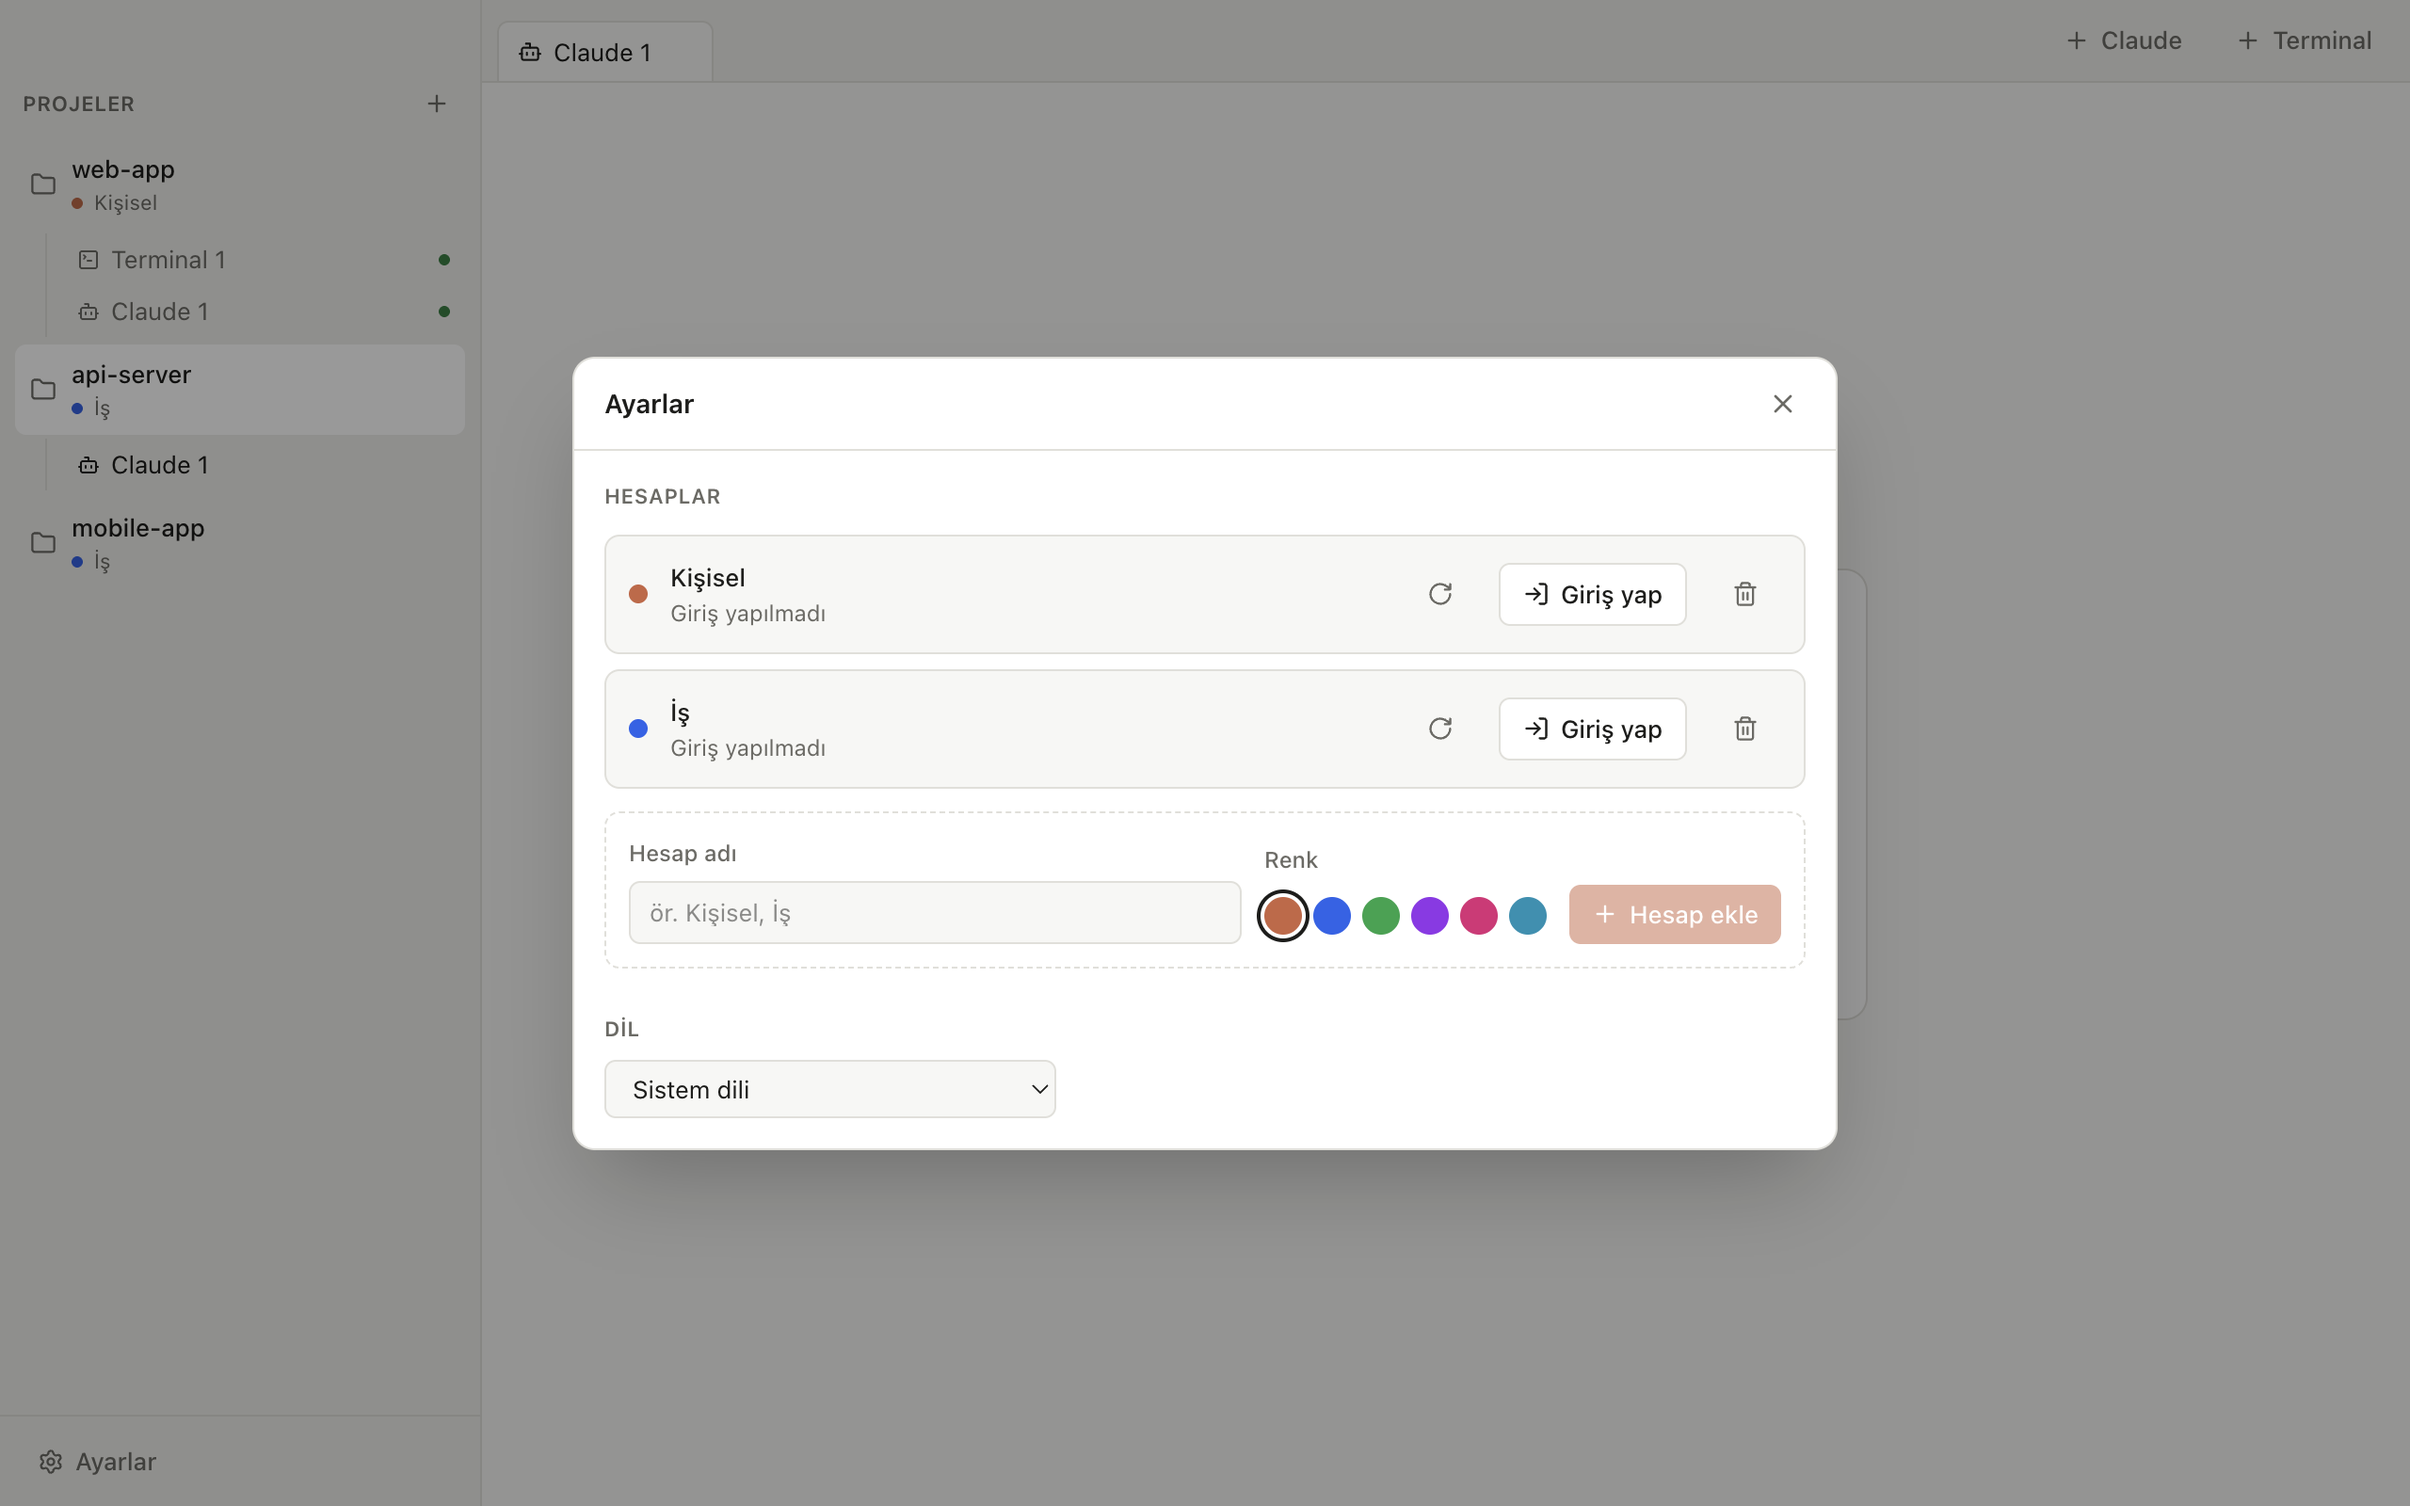
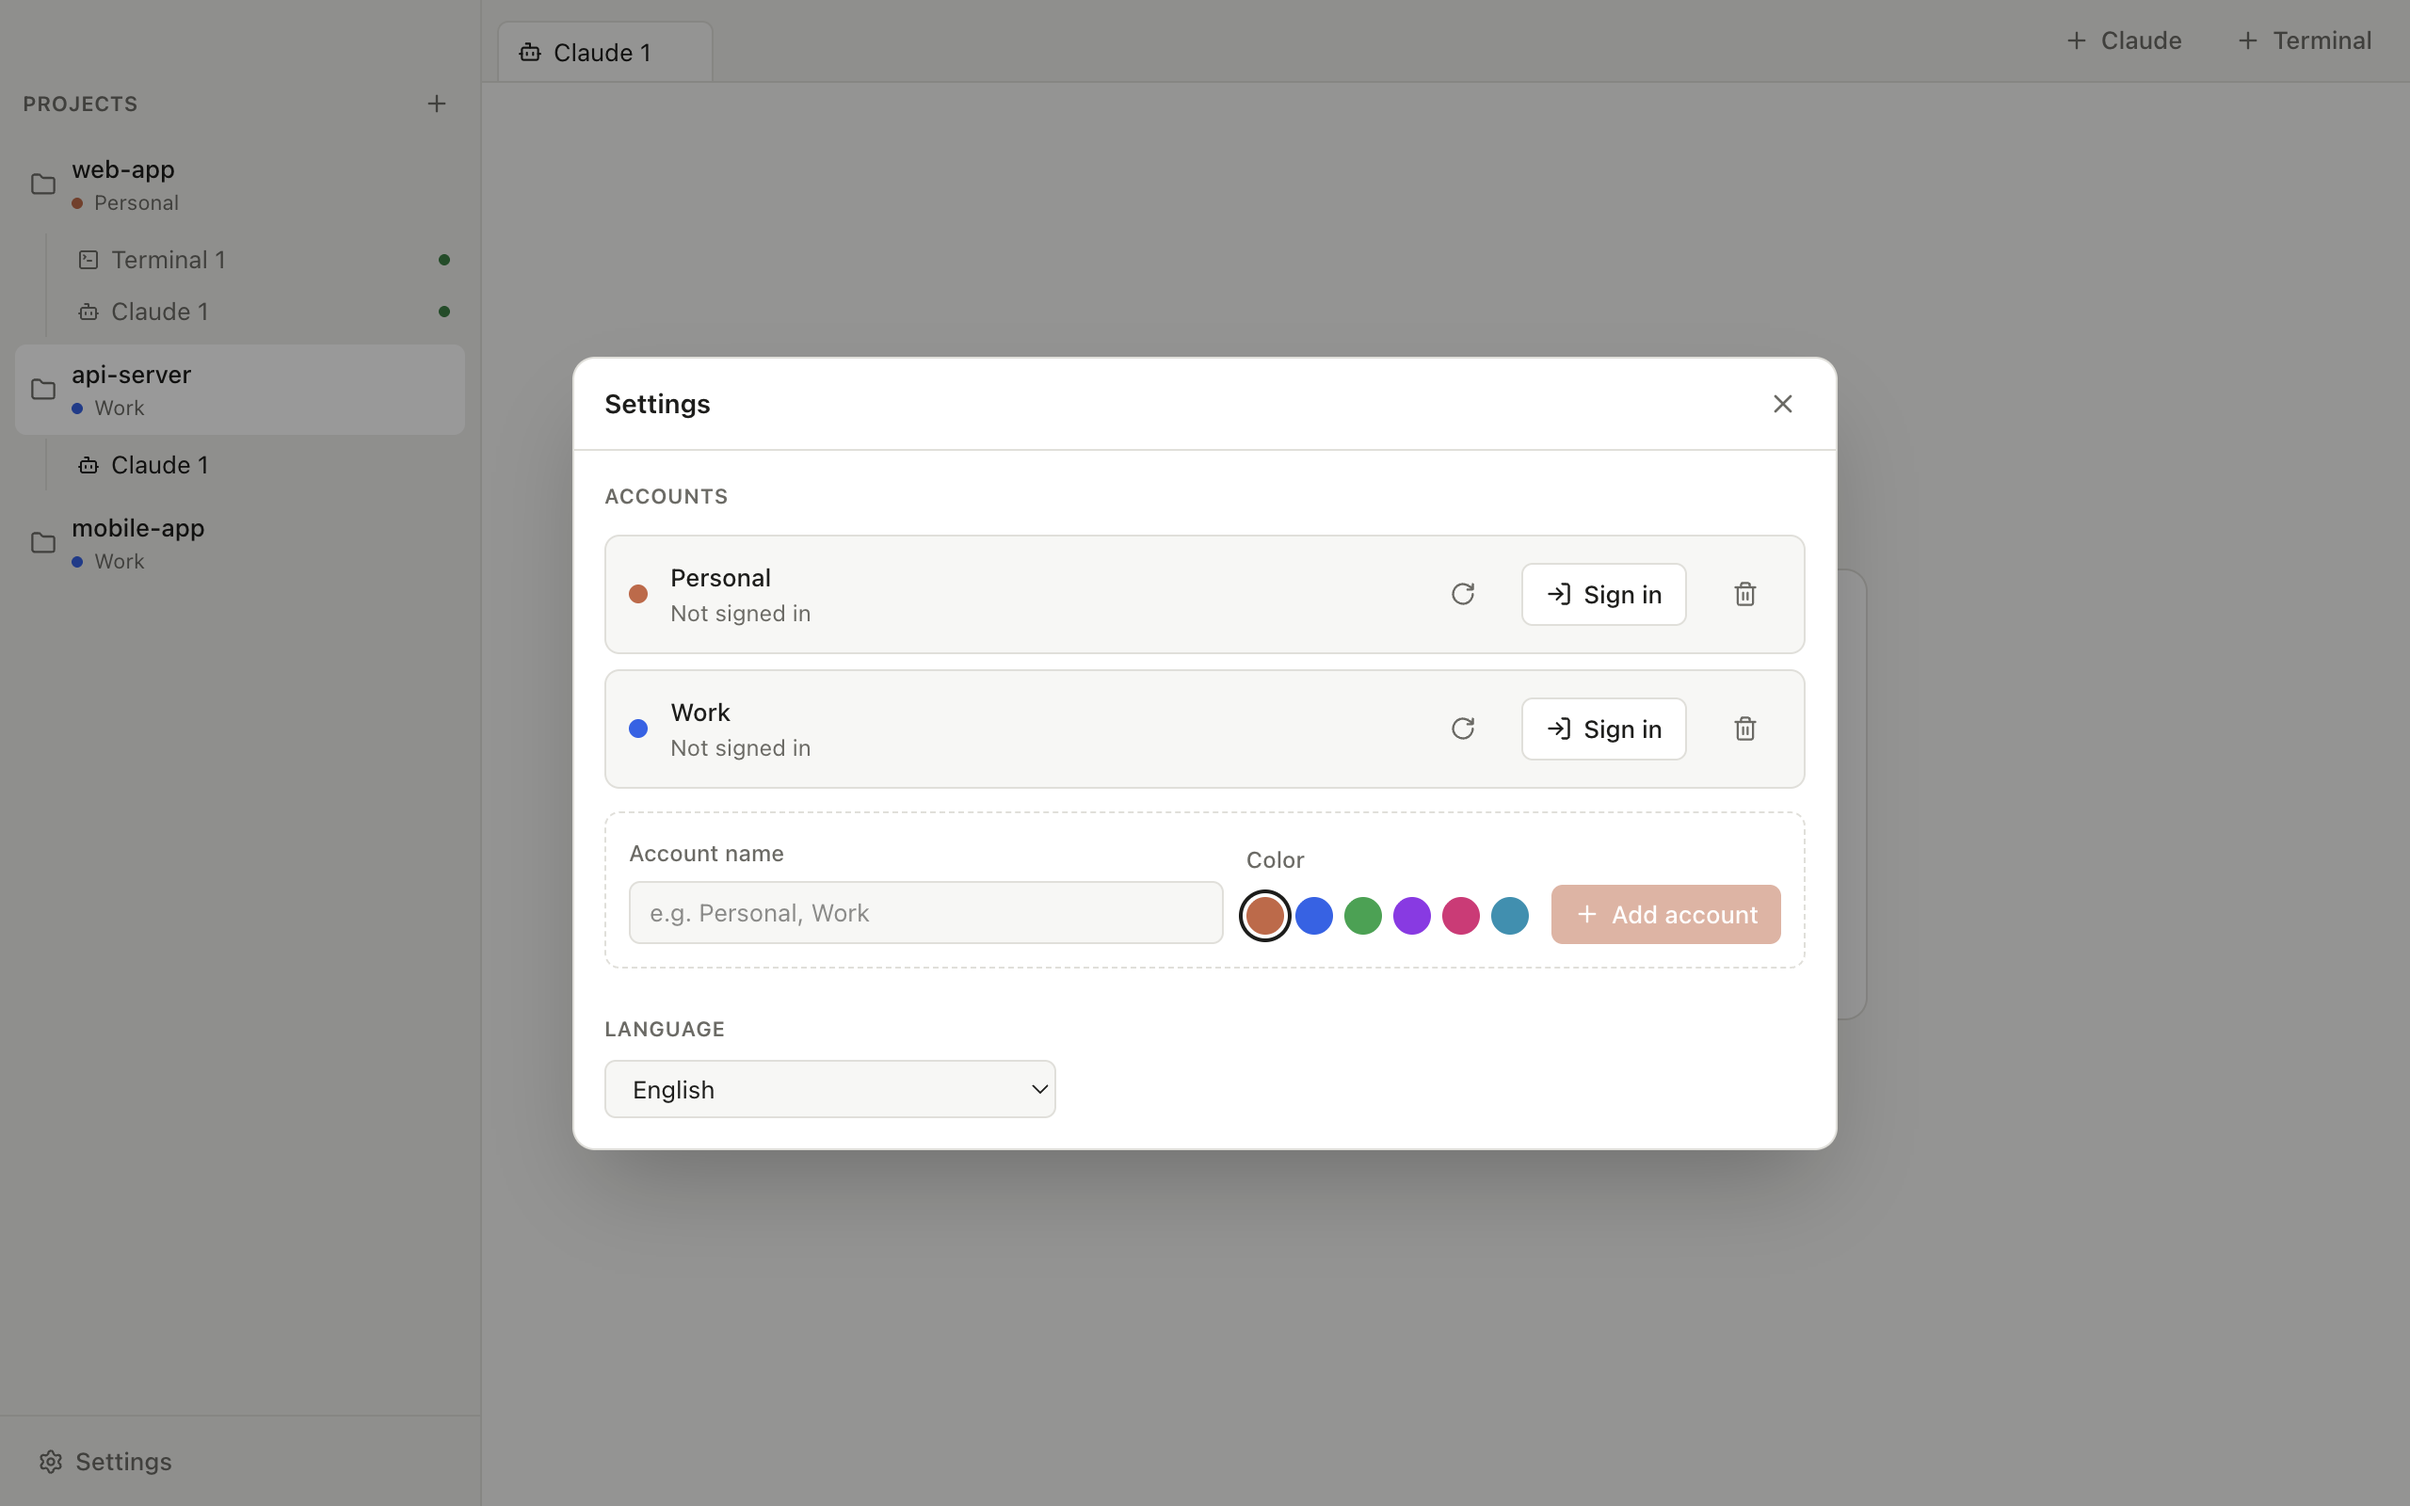
Translate README to English and refresh screenshots with English UI
Add CLAUDE.md with repo conventions (English commits and docs).

diff --git a/README.md b/README.md
@@ -1,88 +1,88 @@
 <p align="center">
-  <img src="docs/icon.png" width="128" height="128" alt="ClaudeDeck ikonu">
+  <img src="docs/icon.png" width="128" height="128" alt="ClaudeDeck icon">
 </p>
 
 <h1 align="center">ClaudeDeck</h1>
 
 <p align="center">
-  Birden fazla Claude Pro/Max hesabını projelere atayın; her projede o hesapla çalışan <code>claude</code> terminalleri açın.
+  Assign multiple Claude Pro/Max accounts to your projects and open <code>claude</code> terminals that run with the right account.
 </p>
 
 <p align="center">
-  <a href="https://github.com/FurkanZhlp/ClaudeDeck/releases/latest"><strong>Son sürümü indir</strong></a>
+  <a href="https://github.com/FurkanZhlp/ClaudeDeck/releases/latest"><strong>Download the latest release</strong></a>
 </p>
 
-![Claude oturumu](docs/screenshots/claude-session.png)
+![Claude session](docs/screenshots/claude-session.png)
 
-## Neden?
+## Why
 
-Kişisel ve iş için ayrı Claude hesaplarınız varsa Claude Code'da hesap değiştirmek sürekli çıkış/giriş demektir. ClaudeDeck'te hesabı projeye bir kez atarsınız; o projede açtığınız her Claude sekmesi doğru hesapla başlar. Farklı hesaplara atanmış projeler yan yana, aynı anda çalışır.
+If you keep separate Claude accounts for personal and work use, switching between them in Claude Code means signing out and back in every time. In ClaudeDeck you assign an account to a project once, and every Claude tab you open in that project starts with that account. Projects on different accounts run side by side.
 
-## Özellikler
+## Features
 
-- **Çoklu hesap:** Her hesap kendi izole Claude Code config klasörünü kullanır. Hesaplar birbirine karışmaz, mevcut `~/.claude` kurulumunuza dokunulmaz.
-- **Proje bazlı hesap:** Proje = klasör + hesap. Hesabı değiştirdiğinizde yeni sekmeler yeni hesapla açılır.
-- **Sekmeler:** Bir projede istediğiniz kadar Claude ve düz Terminal sekmesi. Arka plandaki sekmeler çalışmaya devam eder.
-- **Kaldığı yerden devam:** Her Claude sekmesi kendi konuşmasını hatırlar; uygulamayı yeniden açtığınızda o sekmenin konuşmasına dönebilirsiniz.
-- **Türkçe ve İngilizce arayüz:** Varsayılan sistem dili, Ayarlar'dan değiştirilebilir.
-- **Güncelleme bildirimi:** Yeni sürüm yayınlandığında uygulama içinde haber verir.
+- **Multiple accounts:** each account uses its own isolated Claude Code config directory. Accounts never mix, and your existing `~/.claude` setup is left untouched.
+- **Per-project account:** a project is a folder plus an account. Change the account and new tabs open with the new one.
+- **Tabs:** as many Claude and plain Terminal tabs per project as you like. Background tabs keep running.
+- **Resume per tab:** each Claude tab remembers its own conversation, so you can pick it up again after restarting the app.
+- **English and Turkish UI:** follows the system language by default, switchable in Settings.
+- **Update notifications:** the app tells you when a new release is out.
 
-| Hesap izolasyonu | Ayarlar |
+| Account isolation | Settings |
 | --- | --- |
-| ![Terminal](docs/screenshots/terminal.png) | ![Ayarlar](docs/screenshots/settings.png) |
-| **Yeni proje** | **Giriş yapılmamış hesap uyarısı** |
-| ![Yeni proje](docs/screenshots/new-project.png) | ![Giriş uyarısı](docs/screenshots/signed-out.png) |
+| ![Terminal](docs/screenshots/terminal.png) | ![Settings](docs/screenshots/settings.png) |
+| **New project** | **Signed-out account warning** |
+| ![New project](docs/screenshots/new-project.png) | ![Signed-out warning](docs/screenshots/signed-out.png) |
 
-## Kurulum
+## Installation
 
-Gereksinimler: Apple Silicon Mac ve [Claude Code](https://docs.claude.com/en/docs/claude-code):
+Requirements: an Apple Silicon Mac and [Claude Code](https://docs.claude.com/en/docs/claude-code):
 
 ```bash
 curl -fsSL https://claude.ai/install.sh | bash
 ```
 
-1. [Releases](https://github.com/FurkanZhlp/ClaudeDeck/releases/latest) sayfasından `.dmg` dosyasını indirin, ClaudeDeck'i Uygulamalar klasörüne sürükleyin.
-2. Uygulama henüz Apple tarafından notarize edilmediği için macOS ilk açılışta engelleyebilir. Bu durumda bir kez şunu çalıştırın:
+1. Download the `.dmg` from [Releases](https://github.com/FurkanZhlp/ClaudeDeck/releases/latest) and drag ClaudeDeck into Applications.
+2. The app is not notarized by Apple yet, so macOS may block the first launch. If it does, run this once:
 
    ```bash
    xattr -dr com.apple.quarantine /Applications/ClaudeDeck.app
    ```
 
-## Kullanım
+## Usage
 
-1. **Ayarlar > Hesaplar**'dan hesap ekleyin. Açılan pencerede `claude auth login` çalışır; tarayıcıda o hesapla giriş yapın.
-2. Kenar çubuğundaki **+** ile proje oluşturun: klasör seçin, hesap atayın.
-3. Üst şeritten **+ Claude** veya **+ Terminal** ile sekme açın.
+1. Add an account in **Settings > Accounts**. A window runs `claude auth login`; sign in with that account in your browser.
+2. Create a project with **+** in the sidebar: pick a folder and assign an account.
+3. Open a tab with **+ Claude** or **+ Terminal** in the top bar.
 
-Terminaldeki linkler Cmd+tık ile açılır.
+Links in the terminal open with Cmd+click.
 
-## Nasıl çalışır
+## How it works
 
-Claude Code, oturum ve ayarlarını `CLAUDE_CONFIG_DIR` ile verilen klasörde tutar. ClaudeDeck her hesap için `~/Library/Application Support/ClaudeDeck/accounts/<id>/` klasörü oluşturur ve Claude'u bu değişkenle başlatır. Kabuk yapılandırmanız (`.zshrc` vb.) bu değeri ezemesin diye değişken komut satırında yeniden verilir; `ANTHROPIC_API_KEY` gibi kimlik değişkenleri Claude sekmelerinden kaldırılır.
+Claude Code keeps its session and settings in the directory given by `CLAUDE_CONFIG_DIR`. ClaudeDeck creates `~/Library/Application Support/ClaudeDeck/accounts/<id>/` for each account and starts Claude with that variable. The variable is passed on the command line again so your shell config (`.zshrc` and friends) cannot override it, and credential variables such as `ANTHROPIC_API_KEY` are removed from Claude tabs.
 
-Giriş bilgilerini Claude Code kendisi macOS Anahtar Zinciri'nde saklar; ClaudeDeck token okumaz ve saklamaz.
+Claude Code stores credentials in the macOS Keychain itself. ClaudeDeck never reads or stores tokens.
 
-## Geliştirme
+## Development
 
 ```bash
 pnpm install
-pnpm dev          # geliştirme modu
-pnpm test         # birim testleri (Vitest)
+pnpm dev          # development mode
+pnpm test         # unit tests (Vitest)
 pnpm lint
 pnpm typecheck
-pnpm build:mac    # dist/claudedeck-<sürüm>-arm64.dmg
+pnpm build:mac    # dist/claudedeck-<version>-arm64.dmg
 ```
 
 ```
-src/main      Electron ana süreç: durum deposu, hesap servisi, PTY yöneticisi, güncelleme denetimi, IPC
-src/preload   Renderer'a açılan dar API (contextBridge)
-src/renderer  React arayüzü, xterm.js terminal havuzu
-src/shared    Tipler, IPC sözleşmesi, tr/en çeviriler
-docs/         Tasarım, uygulama planı, ekran görüntüleri
+src/main      Electron main process: state store, account service, PTY manager, update check, IPC
+src/preload   Narrow API exposed to the renderer (contextBridge)
+src/renderer  React UI, xterm.js terminal pool
+src/shared    Types, IPC contract, en/tr translations
+docs/         Design, implementation plan, screenshots
 ```
 
-Yeni sürüm yayınlamak için `package.json` içindeki `version` değerini artırın, `pnpm build:mac` ile derleyin ve `v<sürüm>` etiketiyle GitHub release oluşturup `.dmg` dosyasını ekleyin. Uygulama `releases/latest` uç noktasını denetler.
+To ship a release, bump `version` in `package.json`, build with `pnpm build:mac`, then create a GitHub release tagged `v<version>` with the `.dmg` attached. The app checks the `releases/latest` endpoint.
 
-## Not
+## Disclaimer
 
-ClaudeDeck bağımsız bir projedir; Anthropic ile bağlantılı değildir.
+ClaudeDeck is an independent project and is not affiliated with Anthropic.

diff --git a/CLAUDE.md b/CLAUDE.md
@@ -1,0 +1,10 @@
+# ClaudeDeck
+
+Electron (electron-vite) + React + TypeScript macOS app. See README.md for architecture and commands.
+
+## Conventions
+- Commit messages, README, release notes and code comments in new code: **English**.
+- UI strings live in `src/shared/locales/{en,tr}.json`; keys must match in both (enforced by tests).
+- No em/en dashes in user-facing text.
+- Before committing: `pnpm lint && pnpm typecheck && pnpm test`.
+- Releases: bump `package.json` version, `pnpm build:mac`, `gh release create v<version> dist/*.dmg` (not a pre-release, the in-app update check uses `releases/latest`).
